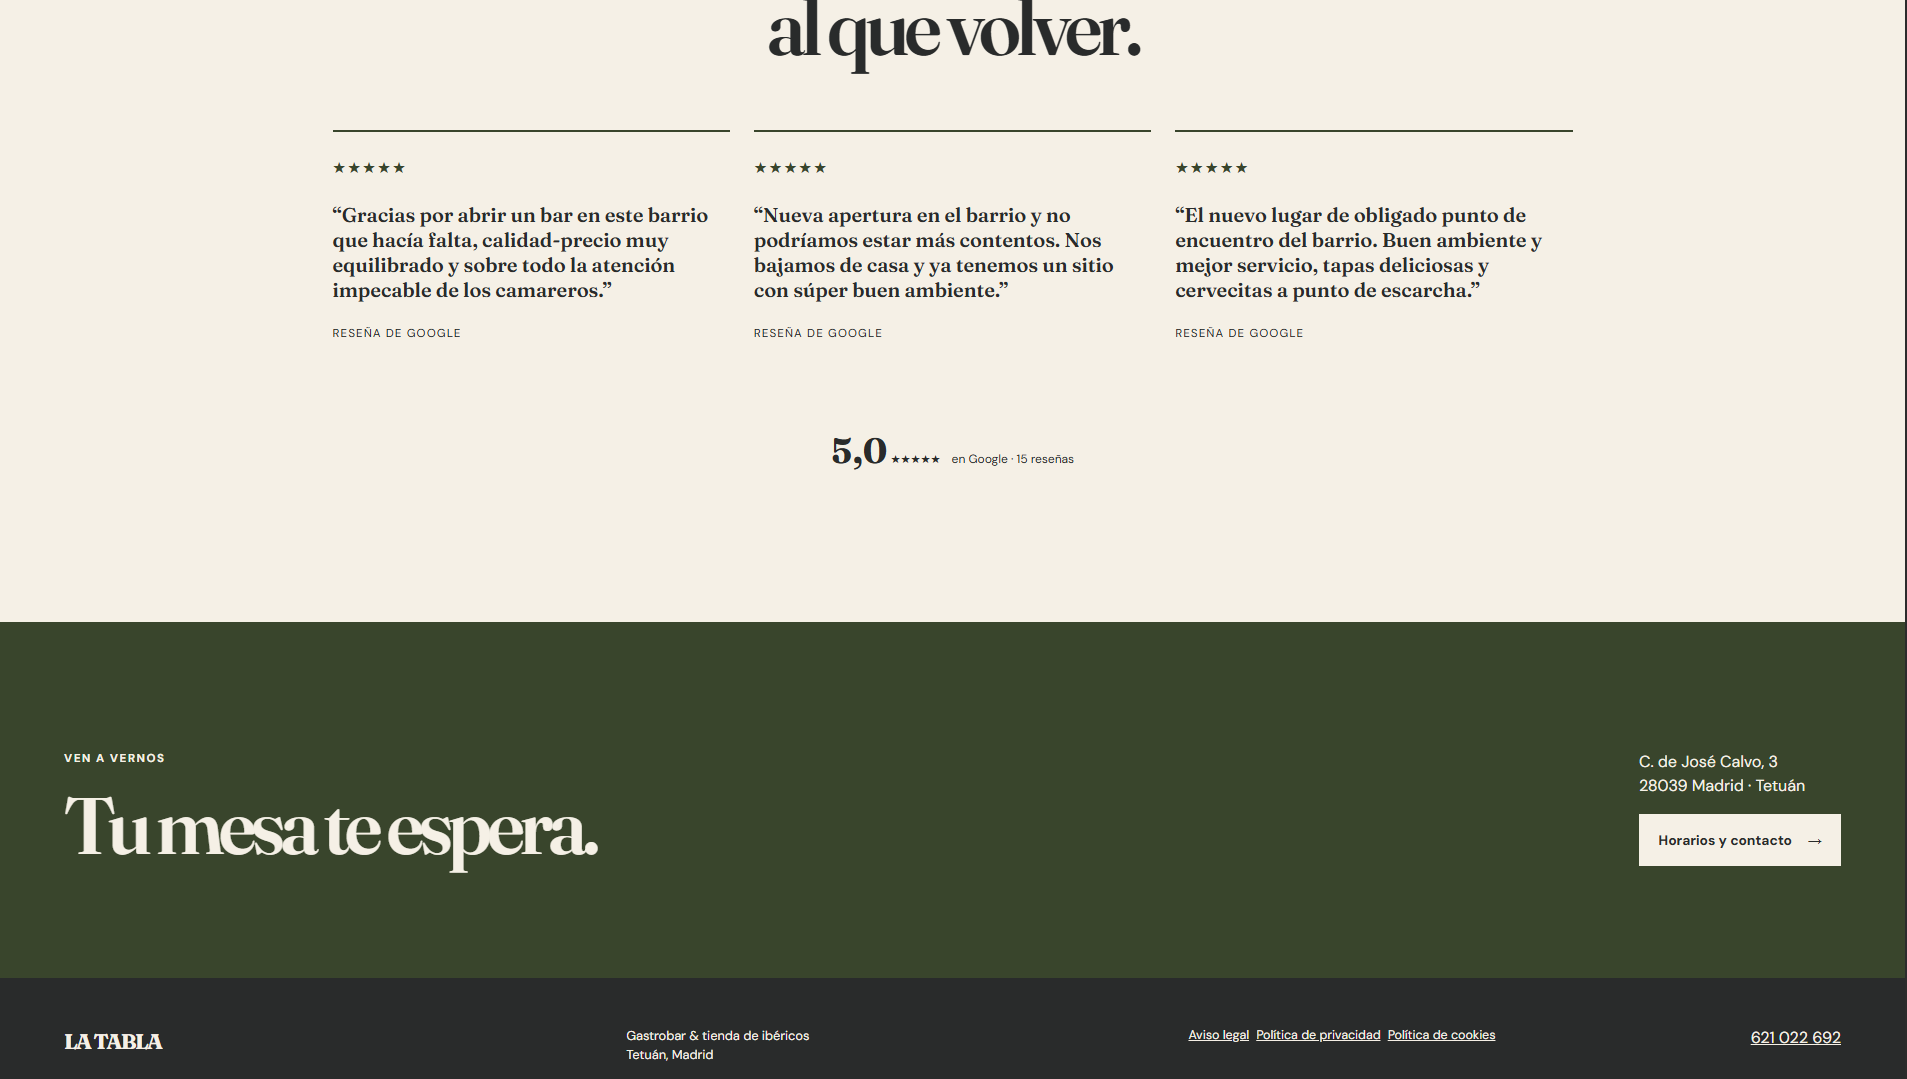
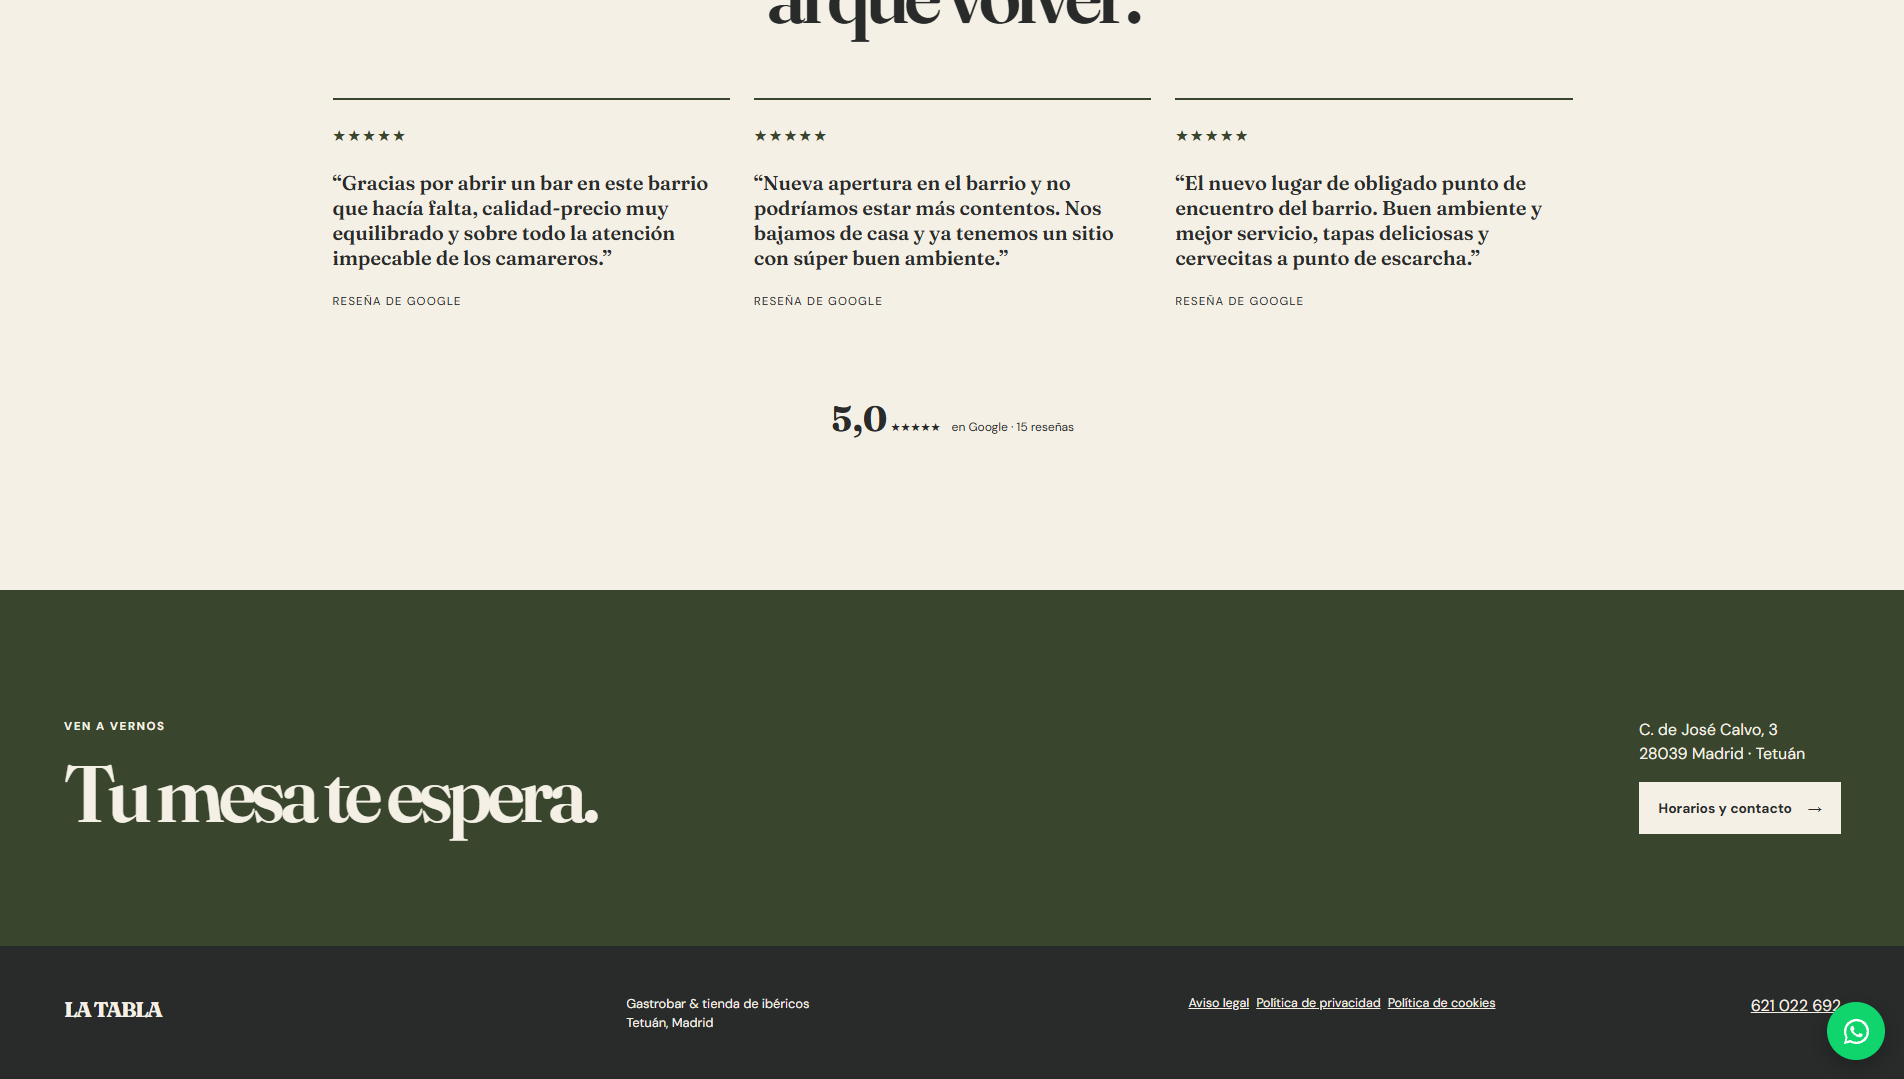
Update portfolio experience and projects
Refresh experience and education details, update project content, and add a new project card and assets.

diff --git a/index.html b/index.html
@@ -34,7 +34,7 @@
 
             <div class="availability">
                 <span class="status-dot"></span>
-                Disponible para trabajar
+                Trabajando actualmente · Interesado en colaborar en proyectos
             </div>
 
             <div class="social-icons">
@@ -132,31 +132,43 @@
         <h3>Experiencia Profesional</h3>
 
         <div class="card">
-            <h4>Estudiante en Prácticas – Club567 | Madrid, España</h4>
-            <p>Feb. 2026 – Mayo 2026 | Presencial
-            <ul>
-                <li>Desarrollo de páginas web mediante Shopify utilizando HTML y CSS para personalización y
-                    optimización del diseño.</li>
-                <li>Creación y gestión de sitios web y blogs en WordPress, incluyendo configuración, diseño e
-                    implementación de funcionalidades mediante plugins y personalización.</li>
-                <li>Desarrollo y programación de tarjetas virtuales para dispositivos móviles, integradas en
-                    entornos Apple Wallet y Google Wallet.</li><br>
-            </ul>
-            </p>
-        
-            <h4>Estudiante en Prácticas – TELMAR COMUNICACIONES, S.L. | Madrid, España</h4>
+            <h4>Intern en ING | Madrid, España</h4>
 
-            <p>Abr. 2024 – Jun. 2024 | Presencial</p>
+            <p>Oct. 2026 - Actualidad | Presencial</p>
 
             <ul>
-                <li>Instalación, configuración y mantenimiento de equipos informáticos y dispositivos tecnológicos.</li>
-                <li>Diagnóstico y resolución de incidencias de hardware, software y redes en entornos empresariales.
-                </li>
-                <li>Soporte técnico a usuarios, garantizando el correcto funcionamiento de los sistemas informáticos.
-                </li>
-                <li>Colaboración en tareas de mantenimiento preventivo y correctivo de infraestructuras tecnológicas.
-                </li>
+                <li>Desarrollo y mantenimiento de programas orientados a las necesidades del proyecto.</li>
+                <li>Participación en el desarrollo e implementación de proyectos tecnológicos.</li>
+                <li>Colaboración en la creación y mejora de soluciones digitales.</li>
             </ul>
+        </div>
+
+
+        <h4>Estudiante en Prácticas - Club567 | Madrid, España</h4>
+        <p>Feb. 2026 - Mayo 2026 | Presencial
+        <ul>
+            <li>Desarrollo de páginas web mediante Shopify utilizando HTML y CSS para personalización y
+                optimización del diseño.</li>
+            <li>Creación y gestión de sitios web y blogs en WordPress, incluyendo configuración, diseño e
+                implementación de funcionalidades mediante plugins y personalización.</li>
+            <li>Desarrollo y programación de tarjetas virtuales para dispositivos móviles, integradas en
+                entornos Apple Wallet y Google Wallet.</li><br>
+        </ul>
+        </p>
+
+        <h4>Estudiante en Prácticas – TELMAR COMUNICACIONES, S.L. | Madrid, España</h4>
+
+        <p>Abr. 2024 – Jun. 2024 | Presencial</p>
+
+        <ul>
+            <li>Instalación, configuración y mantenimiento de equipos informáticos y dispositivos tecnológicos.</li>
+            <li>Diagnóstico y resolución de incidencias de hardware, software y redes en entornos empresariales.
+            </li>
+            <li>Soporte técnico a usuarios, garantizando el correcto funcionamiento de los sistemas informáticos.
+            </li>
+            <li>Colaboración en tareas de mantenimiento preventivo y correctivo de infraestructuras tecnológicas.
+            </li>
+        </ul>
         </div>
 
     </section>
@@ -212,7 +224,7 @@
                         <span class="tag">GitHub</span>
                     </div>
                     <div class="project-status">
-                        🚧 Proyecto actualmente en desarrollo.
+                        🚧 El proyecto está actualmente en desarrollo.
 
                         <br><br>
 
@@ -264,12 +276,12 @@
                         <span class="tag">UI/UX</span>
                     </div>
                     <div class="project-status">
-                        🚧 Proyecto actualmente en desarrollo.
-
+                        🌐 Enlace a la web: <a
+                            href="https://manuelbenaventecarrillo.github.io/La-Tabla-Tetuan.github.io/"
+                            target="_blank">https://manuelbenaventecarrillo.github.io/La-Tabla-Tetuan.github.io/</a>
                         <br><br>
+                        🚧 El proyecto está continuamente en desarrollo.
 
-                        🔒 El acceso al código fuente no está disponible por motivos de privacidad y protección del
-                        proyecto.
                     </div>
                     <div class="project-buttons">
                         <a href="web-latabla.html" target="_blank">Ver Proyecto</a>
@@ -324,7 +336,7 @@
                         <span class="tag">Proyecto Personal</span>
                     </div>
                     <div class="project-status">
-                        🚧 Proyecto actualmente en desarrollo.
+                        🚧 El proyecto está actualmente en desarrollo.
 
                         <br><br>
 
@@ -337,7 +349,35 @@
                 </div>
             </div>
 
+
+            <div class="project-card">
+
+                <img src="assets/proyectos/proyecto4/proyecto4.jpg" alt="Nuevo proyecto en desarrollo">
+
+                <div class="project-content">
+                    <h4>App de gestión - Nuevo proyecto en desarrollo</h4>
+
+                    <p>
+                        Actualmente en desarrollo y no disponible.
+                    </p>
+
+                    <div class="project-buttons">
+                        <a href="#" onclick="return false;">
+                            🚧 El proyecto está actualmente en desarrollo.
+                        </a>
+
+                        <a href="#" onclick="return false;">
+                            🔒 El acceso al código fuente no está disponible por motivos de privacidad y protección del
+                            proyecto.
+                        </a>
+                    </div>
+                </div>
+
+            </div>
+
         </div>
+
+
 
     </section>
 
@@ -352,25 +392,33 @@
 
                 <div class="timeline-item">
                     <div class="timeline-content">
+                        <h4>Desarrollo de Aplicaciones Web (DAW)</h4>
+                        <p><b>IES Lope de Vega | Madrid, España</b></p>
+                        <span>2026-2027 | Presencial</span>
+                    </div>
+                </div>
+
+                <div class="timeline-item">
+                    <div class="timeline-content">
                         <h4>Desarrollo de Aplicaciones Multiplataforma (DAM)</h4>
-                        <p><b>CEU FP Madrid</b></p>
-                        <span>2024-2026</span>
+                        <p><b>CEU FP Madrid | Madrid, España</b></p>
+                        <span>2024-2026 | Presencial</span>
                     </div>
                 </div>
 
                 <div class="timeline-item">
                     <div class="timeline-content">
                         <h4>Sistemas Microinformáticos y Redes (SMR)</h4>
-                        <p>Centro Concertado María Inmaculada Fuencarral</p>
-                        <span>2022-2024</span>
+                        <p><b>Centro Concertado María Inmaculada Fuencarral | Madrid, España</b></p>
+                        <span>2022-2024 | Presencial</span>
                     </div>
                 </div>
 
                 <div class="timeline-item">
                     <div class="timeline-content">
                         <h4>Educación Secundaria Obligatoria (ESO)</h4>
-                        <p>Salesianos Estrecho - Colegio San Juan Bautista</p>
-                        <span>2022</span>
+                        <p><b>Salesianos Estrecho - Colegio San Juan Bautista | Madrid, España</b></p>
+                        <span>2022 | Presencial</span>
                     </div>
                 </div>
 
@@ -380,17 +428,26 @@
             <div class="formacion-texto">
 
                 <p>
-                    He finalizado en 2026 mi Grado Superior en Desarrollo de Aplicaciones Multiplataforma,
+                    Aunque finalizé en 2026 mi Grado Superior de DAM,
+                    he decidido continuar mi formación cursando actualmente el Grado Superior en Desarrollo de
+                    Aplicaciones Web (DAW). Mi objetivo es seguir desarrollándome como profesional,
+                    ampliar mis conocimientos en desarrollo web y profundizar en tecnologías como JavaScript, PHP
+                    y Python, además de continuar mejorando mis competencias en el desarrollo de aplicaciones web.
+                </p>
+
+                <p class="espaciado">
+                    Finalizé en 2026 mi Grado Superior en Desarrollo de Aplicaciones Multiplataforma,
                     consolidando mis conocimientos en Front-end y Back-end, diseño UI/UX, desarrollo web y
                     otras disciplinas clave del desarrollo de software.
                 </p>
 
                 <p class="espaciado">
-                    Llevo aprendiendo de forma autodidacta desde 2021, comenzando con HTML y CSS, lo que despertó
-                    mi interés por el desarrollo Front-end. Posteriormente he ampliado mis conocimientos Back-end
-                    con
-                    tecnologías como JavaScript, Java, Kotlin, Python, Angular, SQL y MySQL, entre otras,
-                    construyendo una base sólida en desarrollo web y programación en general.
+                    Actualmente mientras trabajo dedico tiempo a proyectos como aplicaciones web, páginas web y sistemas
+                    de gestión,
+                    aplicando mis conocimientos en emprendimiento, programación y desarrollo de software.
+                    Esto me permite seguir aprendiendo y mejorando mis habilidades técnicas,
+                    así como adquirir experiencia práctica en el desarrollo de soluciones digitales y
+                    la resolución de problemas reales mediante software.
                 </p>
 
             </div>
